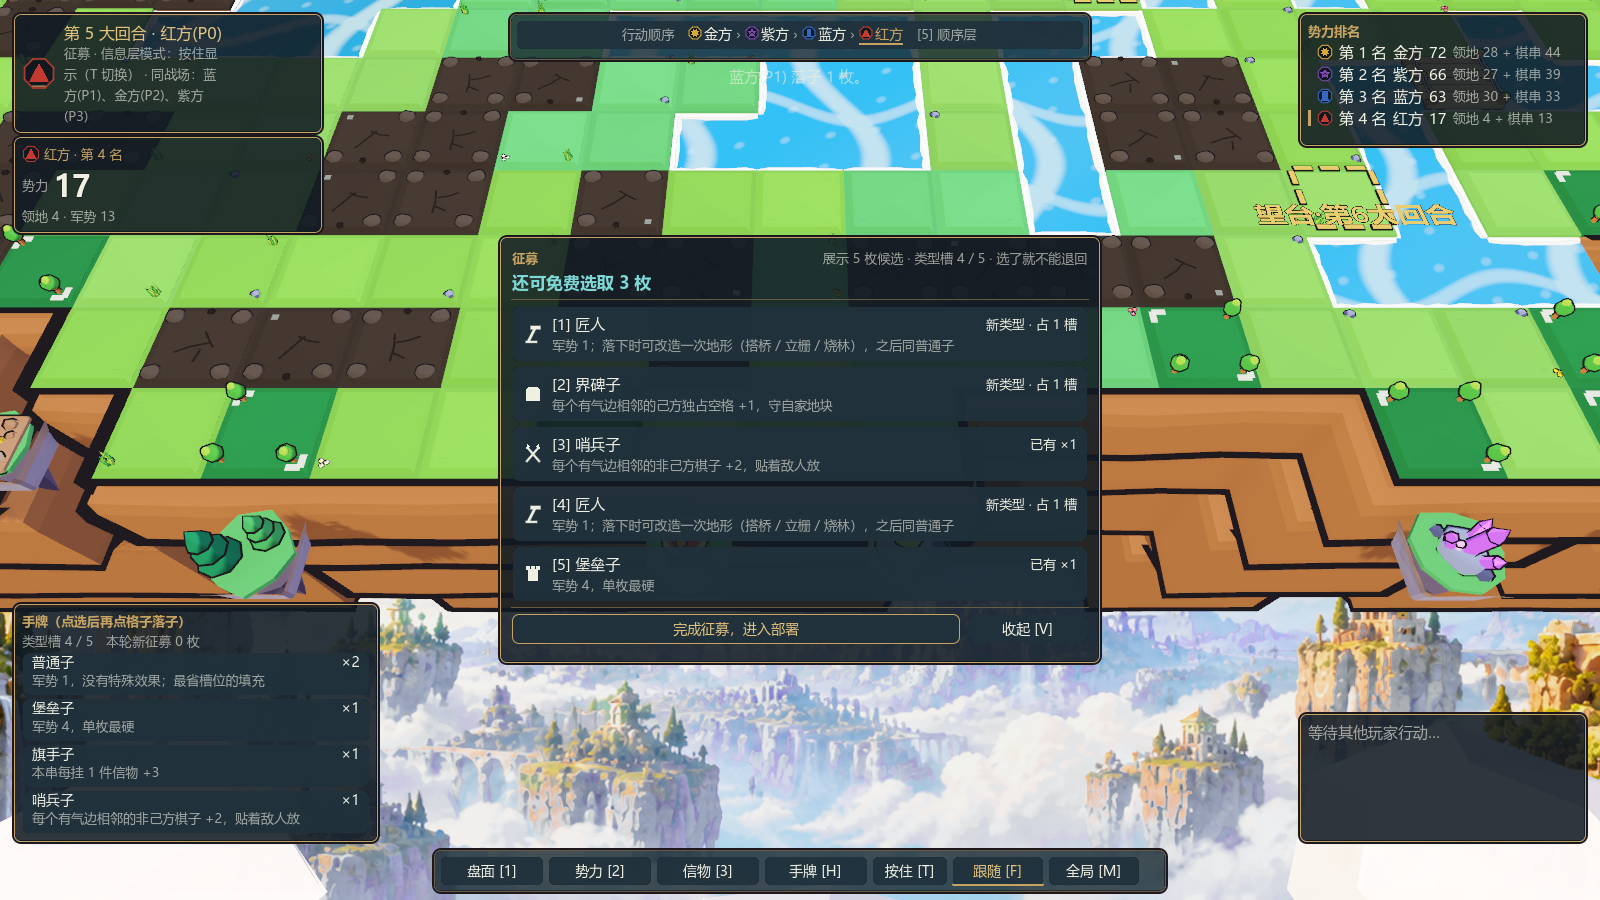
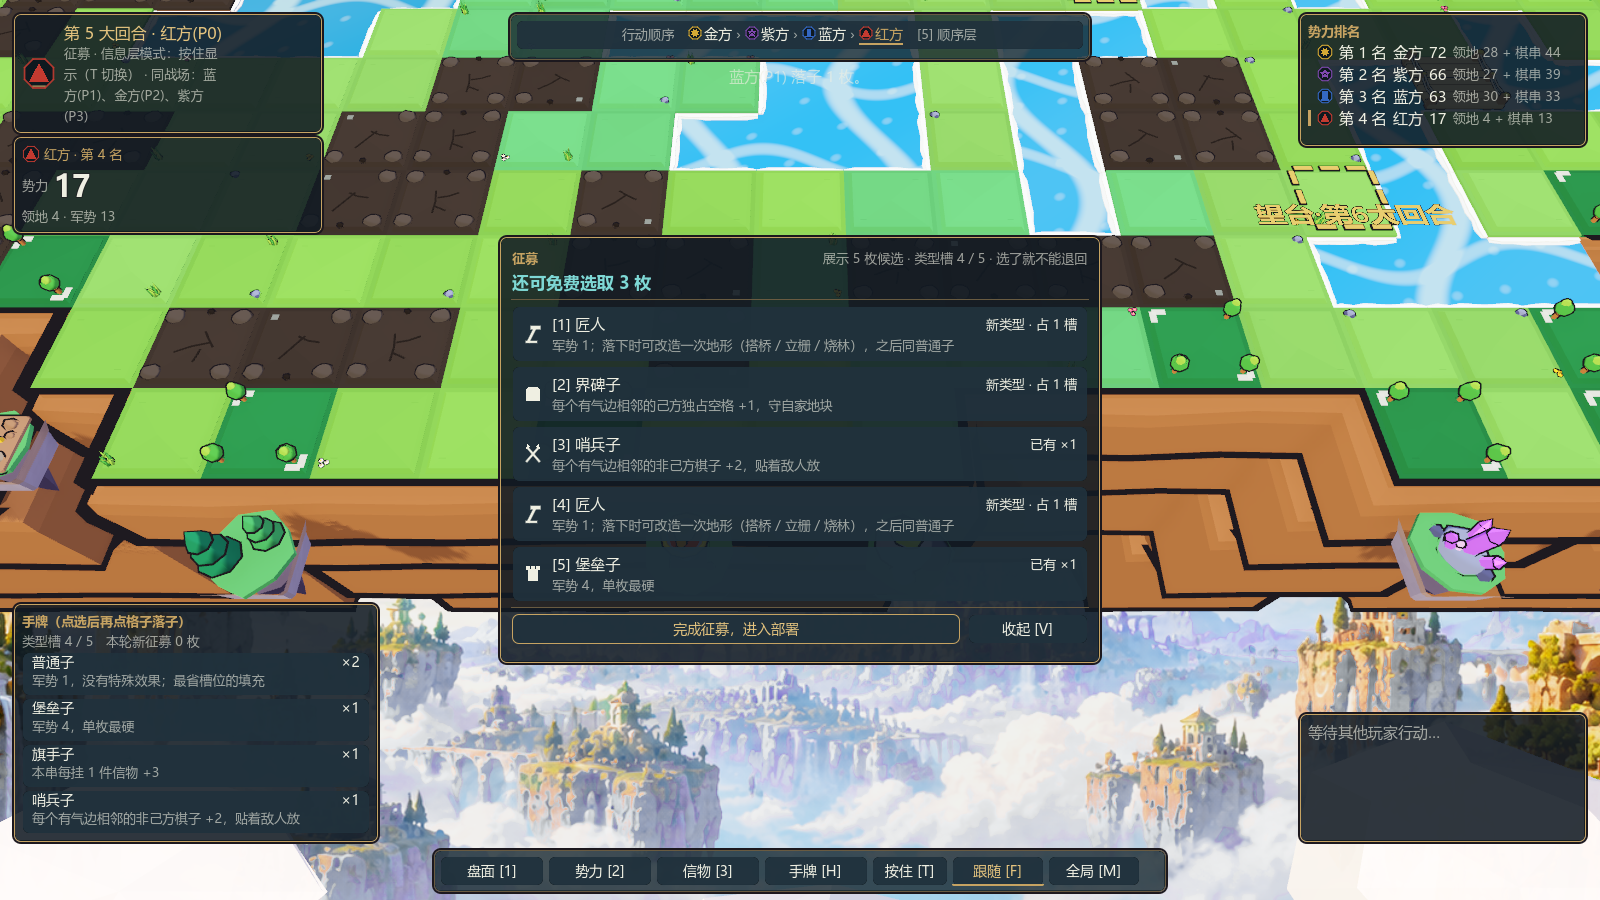
feat(shore-islets): 浮石部件资源与合批、对照图补全局与标注核对
- parts/terrain_full_art 新增 islet_0..2.tscn（--export-parts 导出后只拷这三件与一份新材质），浮石改走合批（未合批 0 格）
- 重拍新版近景（合批后），加 main / 新版全局图与信息层标注近景；对照图重拼
- 绘制调用：全局 2121→2308（+8.8%），近景 +10% / +12%
- 任务状态 in_progress，PRD 补记数据与偏离（只按坐标散列）

diff --git a/.trellis/tasks/11-23-shore-islets/prd.md b/.trellis/tasks/11-23-shore-islets/prd.md
@@ -16,8 +16,9 @@ terrain-bonus 段 B 把岛内岩石障碍改成可落子的岩石地表后，障
 - 视图里没有地图种子：只按坐标散列（纯整数算术，跨进程稳定）。岛形由种子生成，所以同一张图结果恒定。
 - 视图里有未展开占位或中立平台轮廓（插旗阶段、选图预览）时返回空。
 - 岛面判定 `IslandCells` 从 Godot 挪到 Presentation（逐位同口径），3D 场景与小地图共用。
-- Godot：在 `EmitCell` 的虚空格分支里画浮石（新部件 `islet`，3 档：九边形草皮 + 两段岩层 + 垂岩）和装饰件，都走 `sink.Parts` 合批；档号取清单散列，不走常驻路径的 `variant++`，原有装饰档号不变；不登记拾取。浮石向外让 0.12、顶面低于 h=0 地砖 0.30，南岸高件不挡岸边格。
-- 大图同一条路径（逐区块 sink），未单独截图验证。
+- Godot：在 `EmitCell` 的虚空格分支里画浮石（新部件 `islet`，3 档：九边形草皮 + 两段岩层 + 垂岩；资源 `parts/terrain_full_art/islet_*.tscn` 由 `--export-parts` 导出后只拷这三件与新材质，合批要求有资源）和装饰件，都走 `sink.Parts` 合批；档号取清单散列，不走常驻路径的 `variant++`，原有装饰档号不变；不登记拾取。浮石向外让 0.12、顶面低于 h=0 地砖 0.30，南岸高件不挡岸边格。
+- 大图同一条路径；link:9:4:l 无头自检退出 0、建场景 185 ms；大图的 `[deco]` 日志不记流式装饰，浮石块数与画面都未核实。
+- 坐标标注（信息层打开时显示）在画幅边缘外 1.2 格，实拍与浮石不重叠（`labels-south-after.png`）。
 
 ## Acceptance Criteria
 
@@ -29,3 +30,5 @@ terrain-bonus 段 B 把岛内岩石障碍改成可落子的岩石地表后，障
 ## Notes
 
 - link:1:4 实测放 50 块浮石（原场景装饰约 246 格），密度可再调（`ShoreScenery.Density`、八邻间隔）。
+- 选格只按坐标散列：视图模型里没有地图种子（方案表原写「坐标 + 地图种子」）。
+- 绘制调用（锁定后第 5 大回合，同一机位）：南岸近景 1440→1583、西岸近景 1516→1702、全局 2121→2308（+8.8%）；装饰 MultiMesh 33→141，未合批 0 格。
